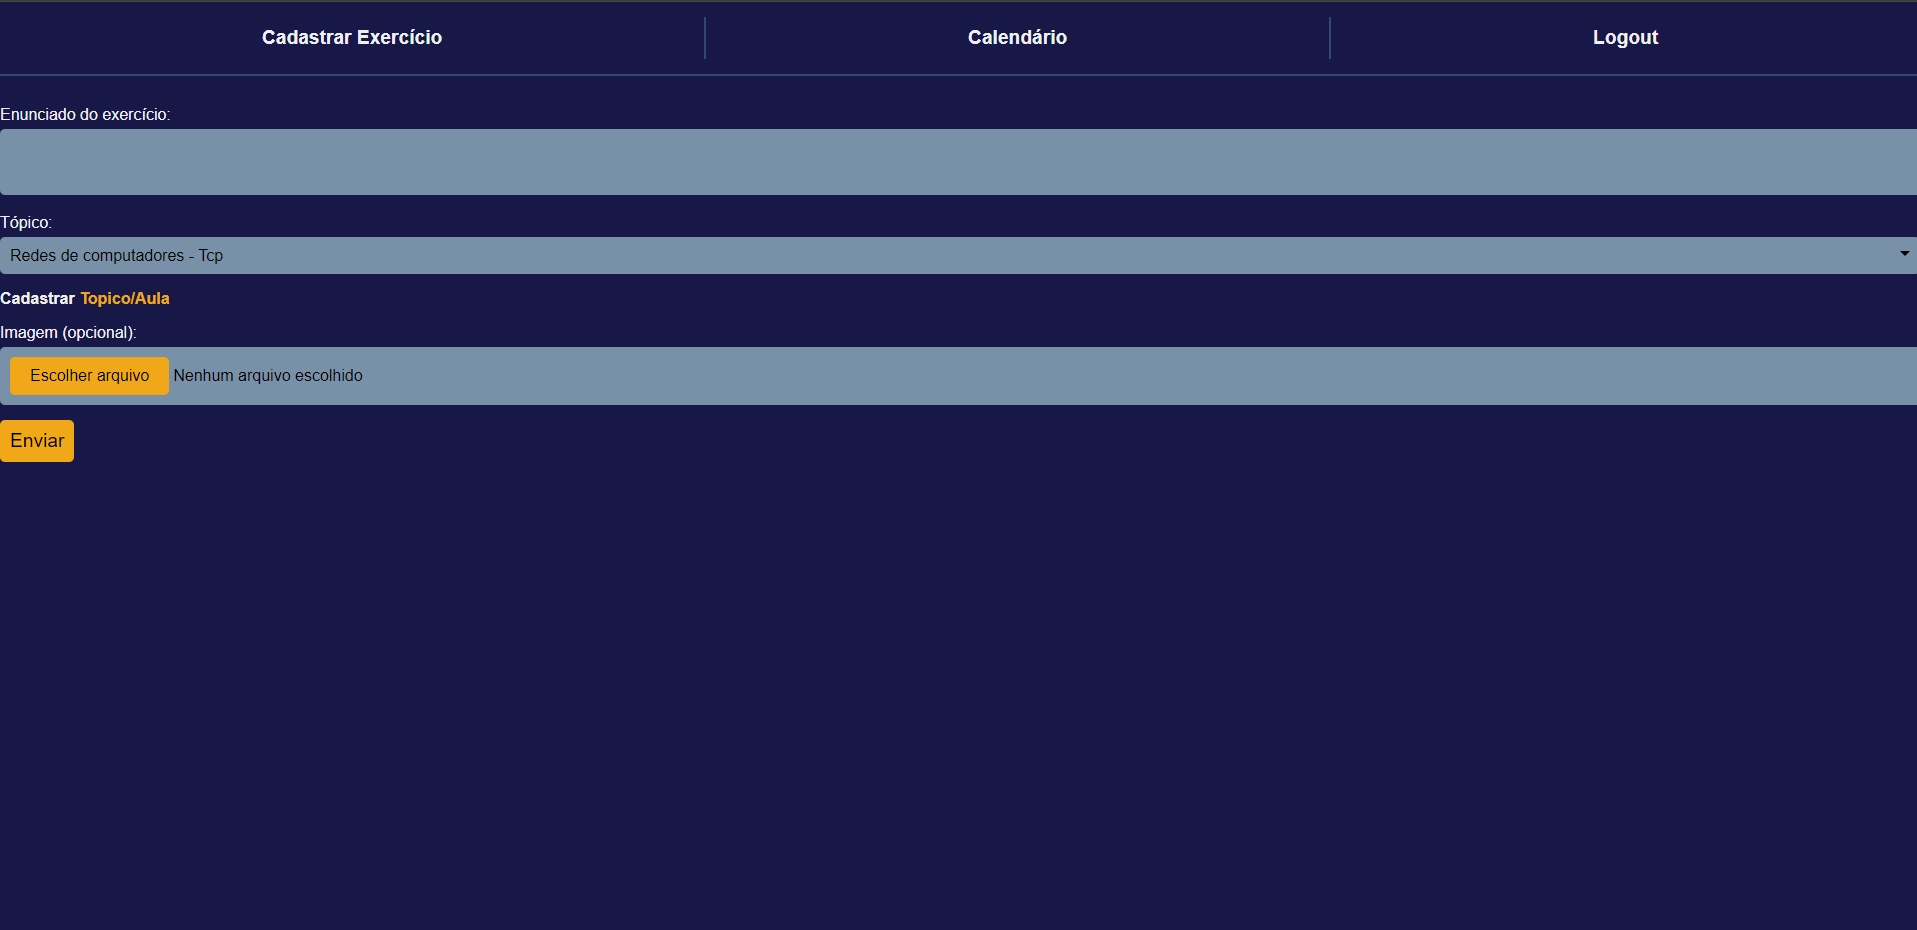
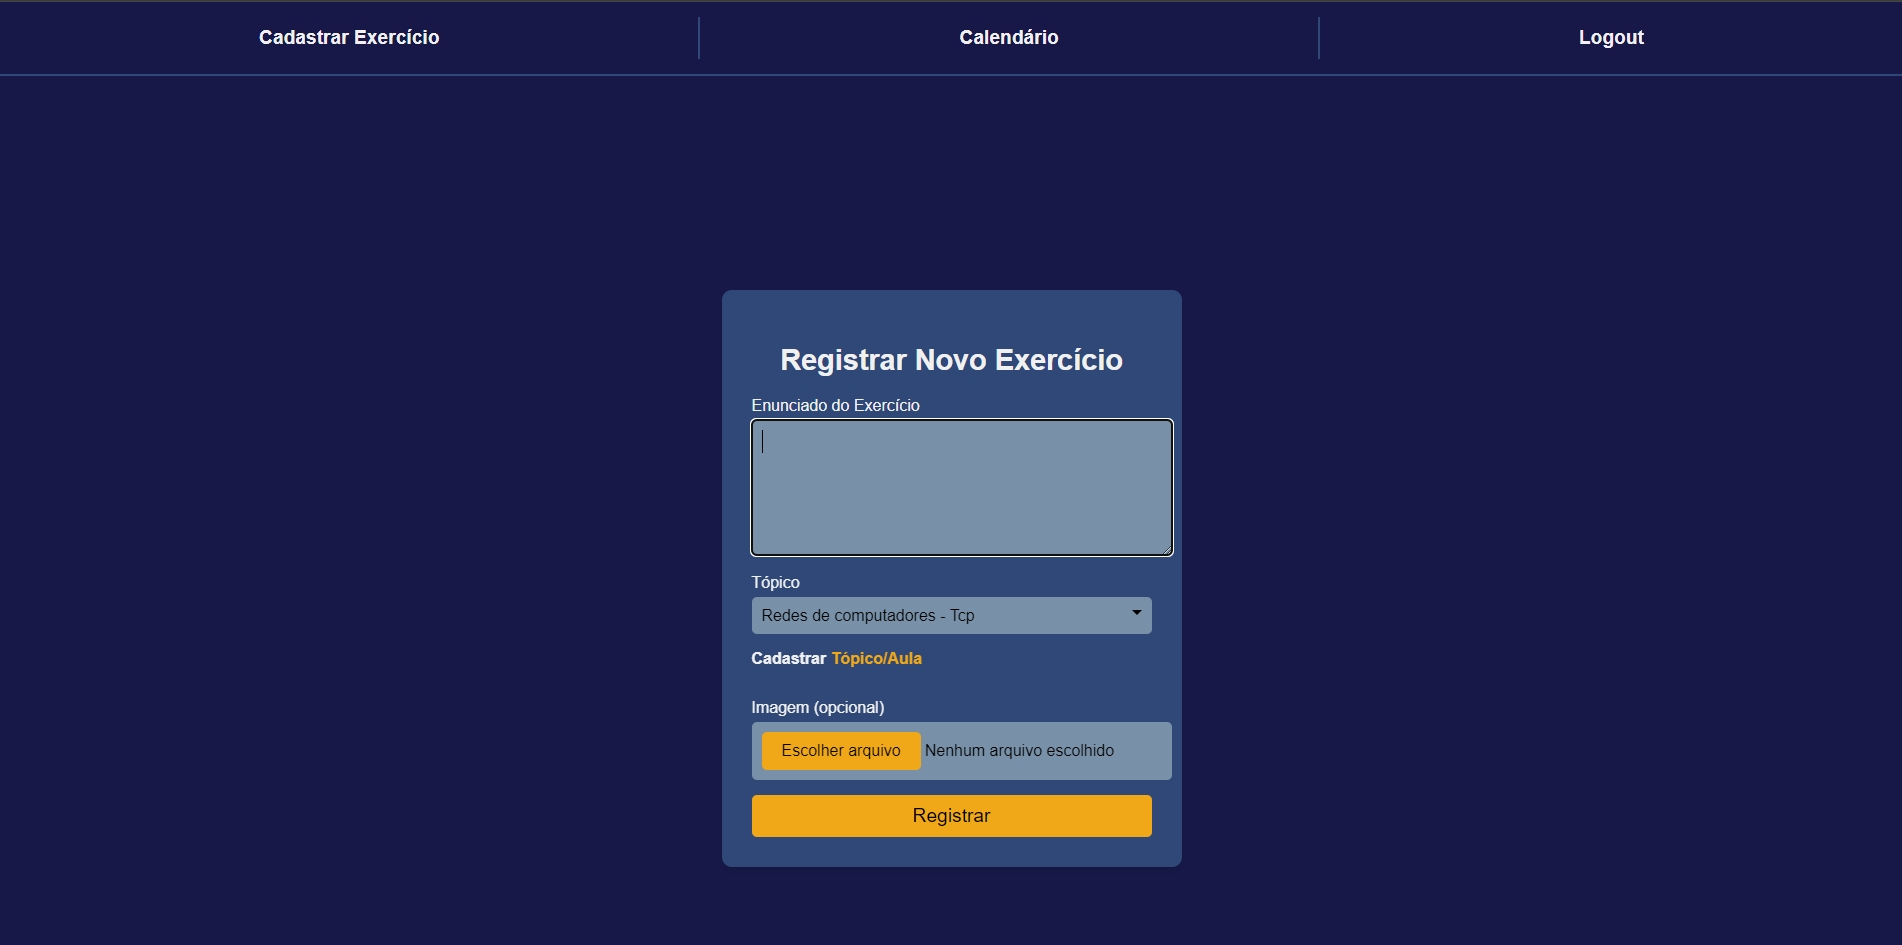
Padronizando pagina de cadastro de exercicos com as demais

diff --git a/Learning/Apreender/templates/Apreender/problem.html b/Learning/Apreender/templates/Apreender/problem.html
@@ -5,32 +5,37 @@
         <div class="alert alert-error">{{ errorMessage }}</div>
     {% endif %}
     
-    <form method="POST" enctype="multipart/form-data" action="{% url 'problem' %}">
-        {% csrf_token %}
-        
-        <div class="input-group">
-            <label for="problemStatement" class="color5">Enunciado do exercício:</label>
-            <textarea name="problemStatement" id="problemStatement" maxlength="1000"></textarea>
+    <div class="register-container">
+        <div class="register-box">
+            <h2 class="register-title">Registrar Novo Exercício</h2>
+            <form class="register-form" method="POST" enctype="multipart/form-data" action="{% url 'problem' %}">
+                {% csrf_token %}
+                
+                <div class="input-group">
+                    <label for="problemStatement">Enunciado do Exercício</label>
+                    <textarea name="problemStatement" id="problemStatement" maxlength="1000" rows="5" required></textarea>
+                </div>
+                
+                <div class="input-group">
+                    <label for="topic">Tópico</label>
+                    <select name="topic" id="topic" required>
+                        {% for topic in topics %}
+                            <option value="{{ topic.id }}">{{ topic.subject.name }} - {{ topic.name }}</option>
+                        {% endfor %}
+                    </select>
+                    <div class="div-link">
+                        <p>Cadastrar <a href="{% url 'topic' %}" class="link-default">Tópico/Aula</a></p>
+                    </div>
+                </div>
+                
+                <div class="input-group">
+                    <label for="image">Imagem (opcional)</label>
+                    <input type="file" name="image" id="image" accept=".jpg, .jpeg, .png">
+                </div>
+                
+                <button type="submit" class="btn-register">Registrar</button>
+            </form>
         </div>
-
-        <div class="input-group">
-            <label for="topic" class="color5">Tópico:</label>
-            <select name="topic" id="topic">
-                {% for topic in topics %}
-                    <option value="{{ topic.id }}">{{ topic.subject.name }} - {{ topic.name }}</option>
-                {% endfor %}
-            </select>
-            <div class="div-link">
-                    <p>Cadastrar <a href="{% url 'topic' %}" class="link-default">Topico/Aula</a></p>
-            </div>
-        </div>
-        
-        <div class="input-group">
-            <label for="image" class="color5">Imagem (opcional):</label>
-            <input type="file" name="image" id="image" accept=".jpg, .jpeg, .png">
-        </div>
-        
-        <button type="submit" class="btn-login">Enviar</button>
-    </form>
+    </div>
 
 {% endblock %}
